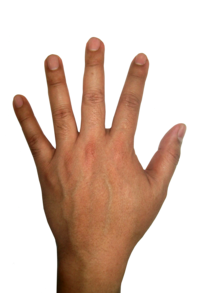
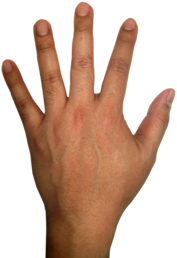
hand now moves

diff --git a/flies.py b/flies.py
@@ -1,6 +1,6 @@
 import sys
 import pygame
-import math 
+import dimensions as dm
 
 pygame.init()
 screen = pygame.display.set_mode((1000,800))
@@ -19,21 +19,23 @@ class Hand:
         self.image = pygame.image.load("hand.png").convert_alpha()
         self.position = Pair(mouse[0], mouse[1])
         self.speed = 50
-        self.hitbox = pygame.Rect(mouse[0], mouse[1], 200, 293)
-    def display(self):
-        screen.blit(self.image, mouse)
+        self.hitbox = pygame.Rect(self.position.x, self.position.y, dm.hand_width, dm.hand_height)
+    def display(self, x_pos, y_pos):
+        screen.blit(self.image, (x_pos-(dm.hand_width/2), y_pos-(dm.hand_height/2)))
   #  def move(self):
 
         
 hand = Hand()
 while True:
+    mouse_x, mouse_y = pygame.mouse.get_pos()
     for event in pygame.event.get():
         if event.type == pygame.QUIT:
             pygame.display.quit()
             sys.exit()
+
     screen.fill((0))
     
    # hand.move()
-    hand.display()
+    hand.display(mouse_x, mouse_y)
     
     pygame.display.update()

diff --git a/dimensions.py b/dimensions.py
@@ -1,0 +1,2 @@
+hand_height = 258
+hand_width = 177
